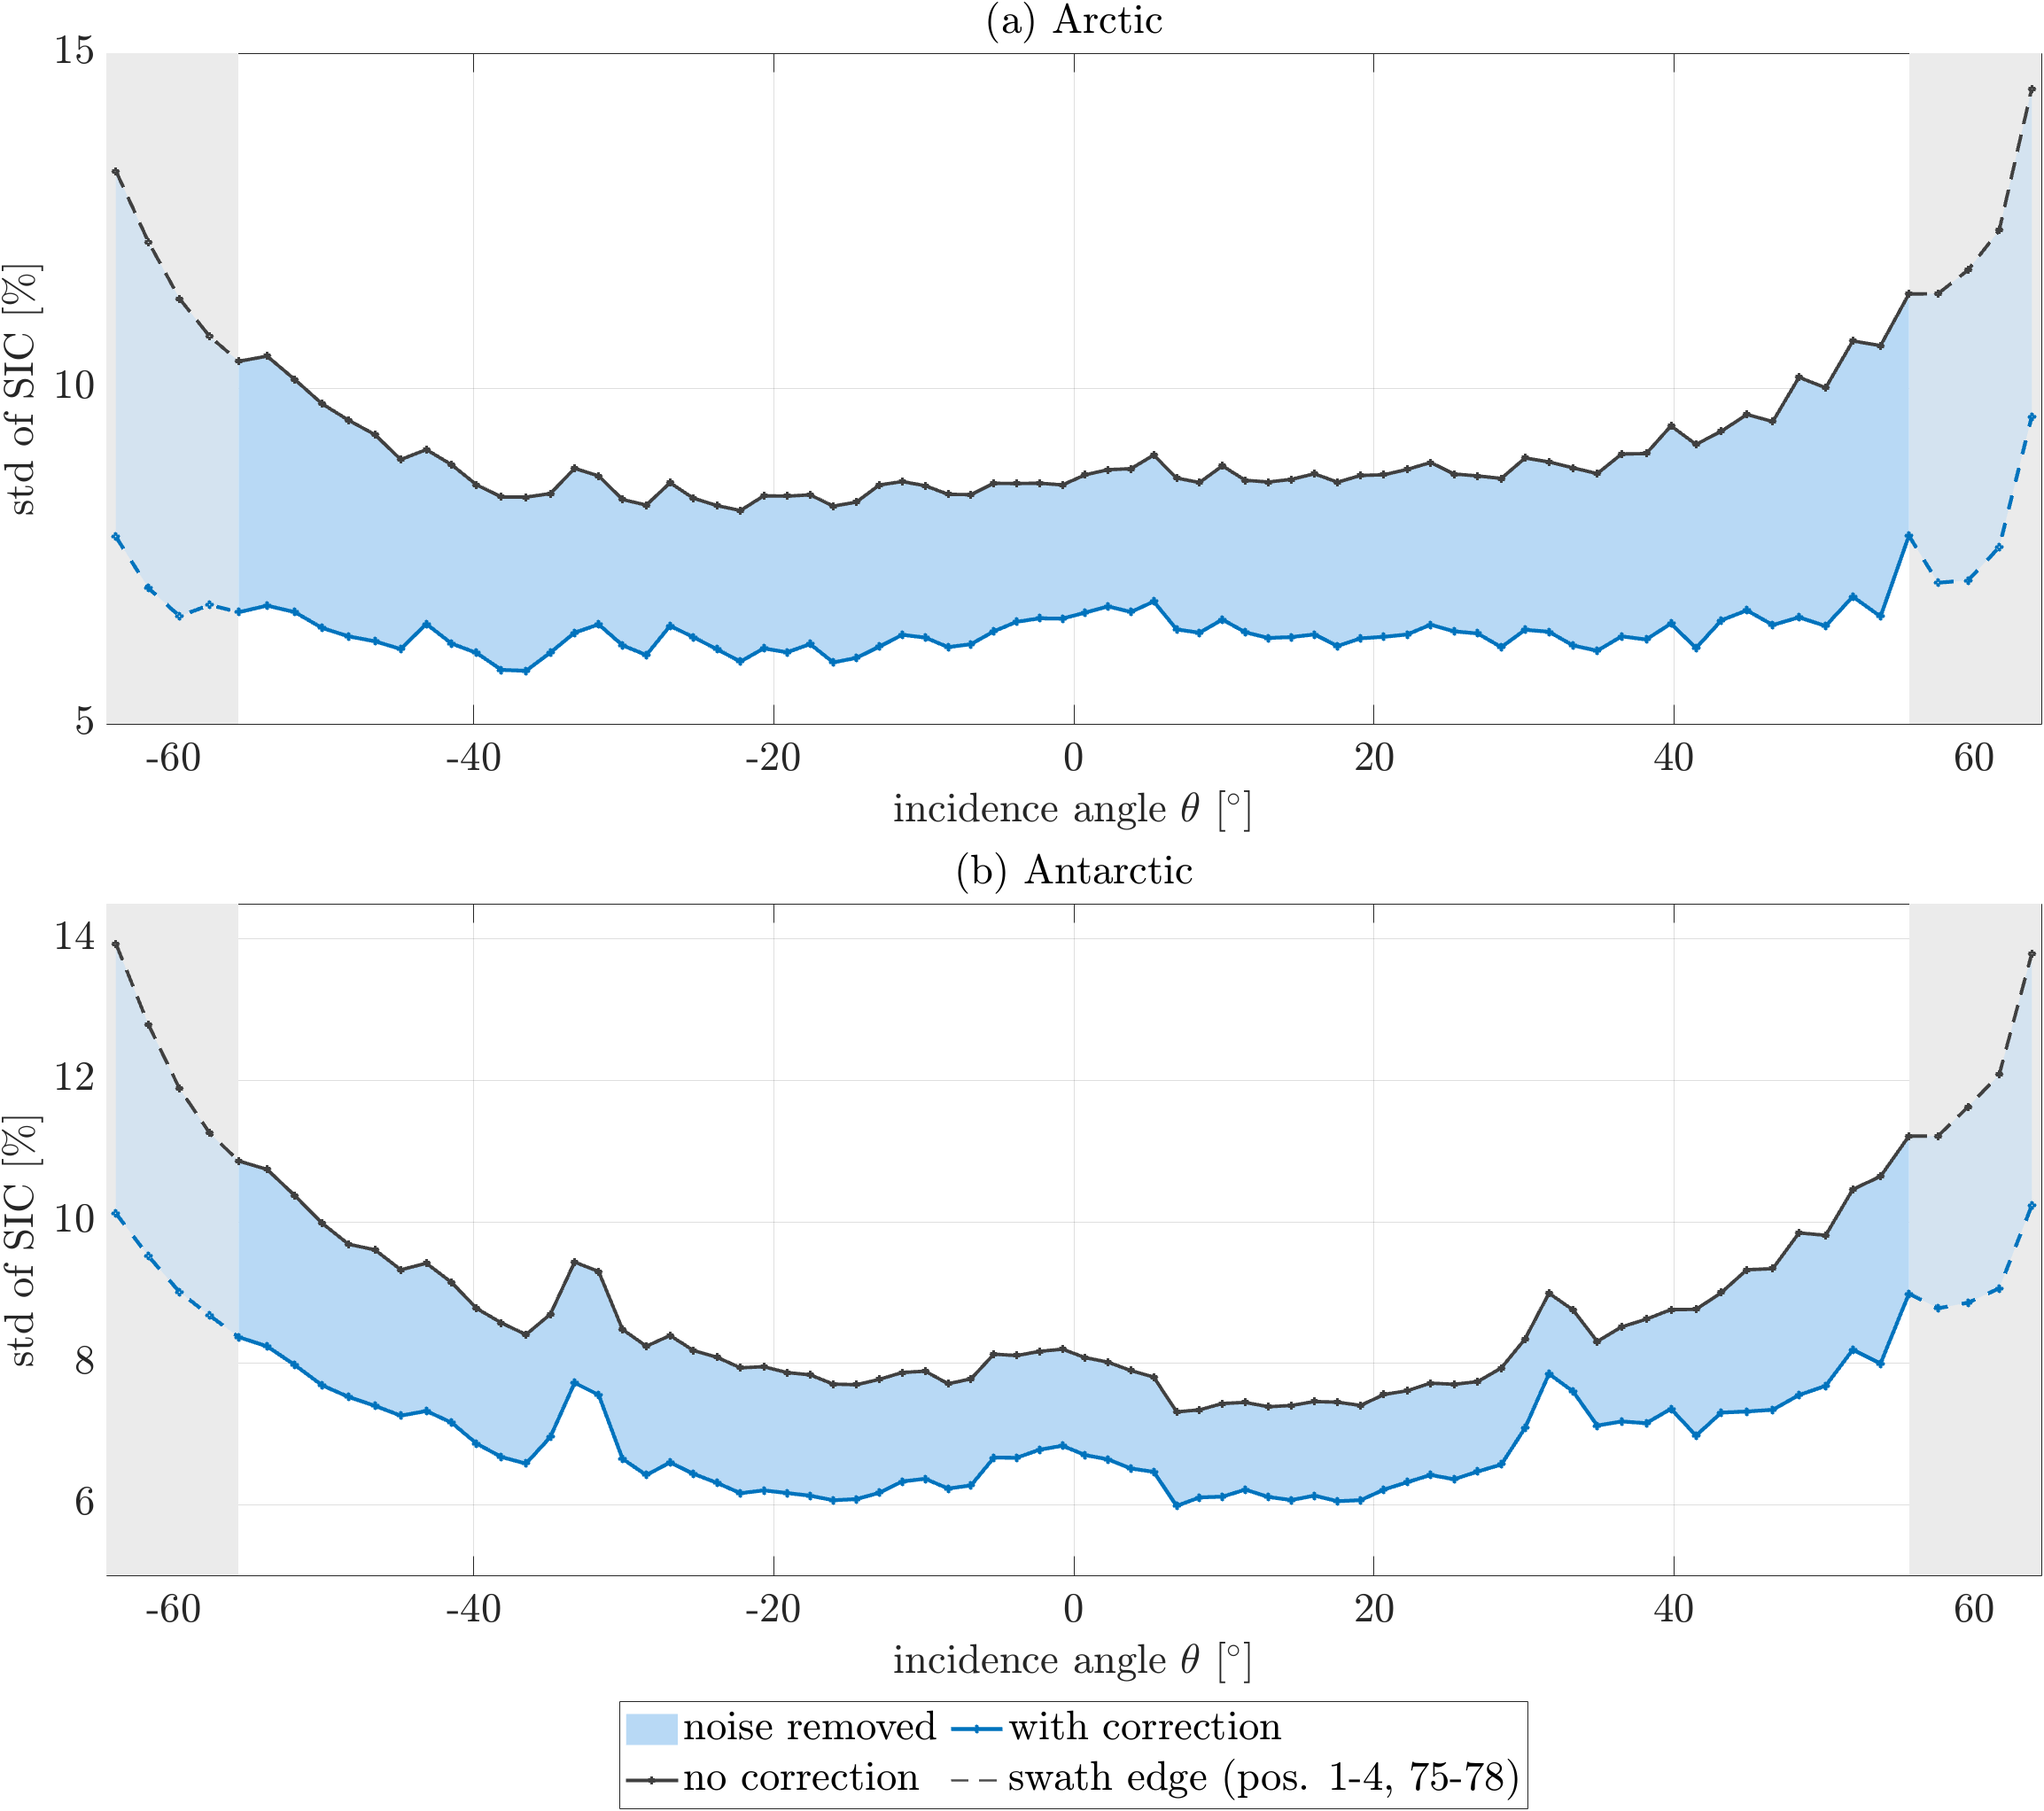
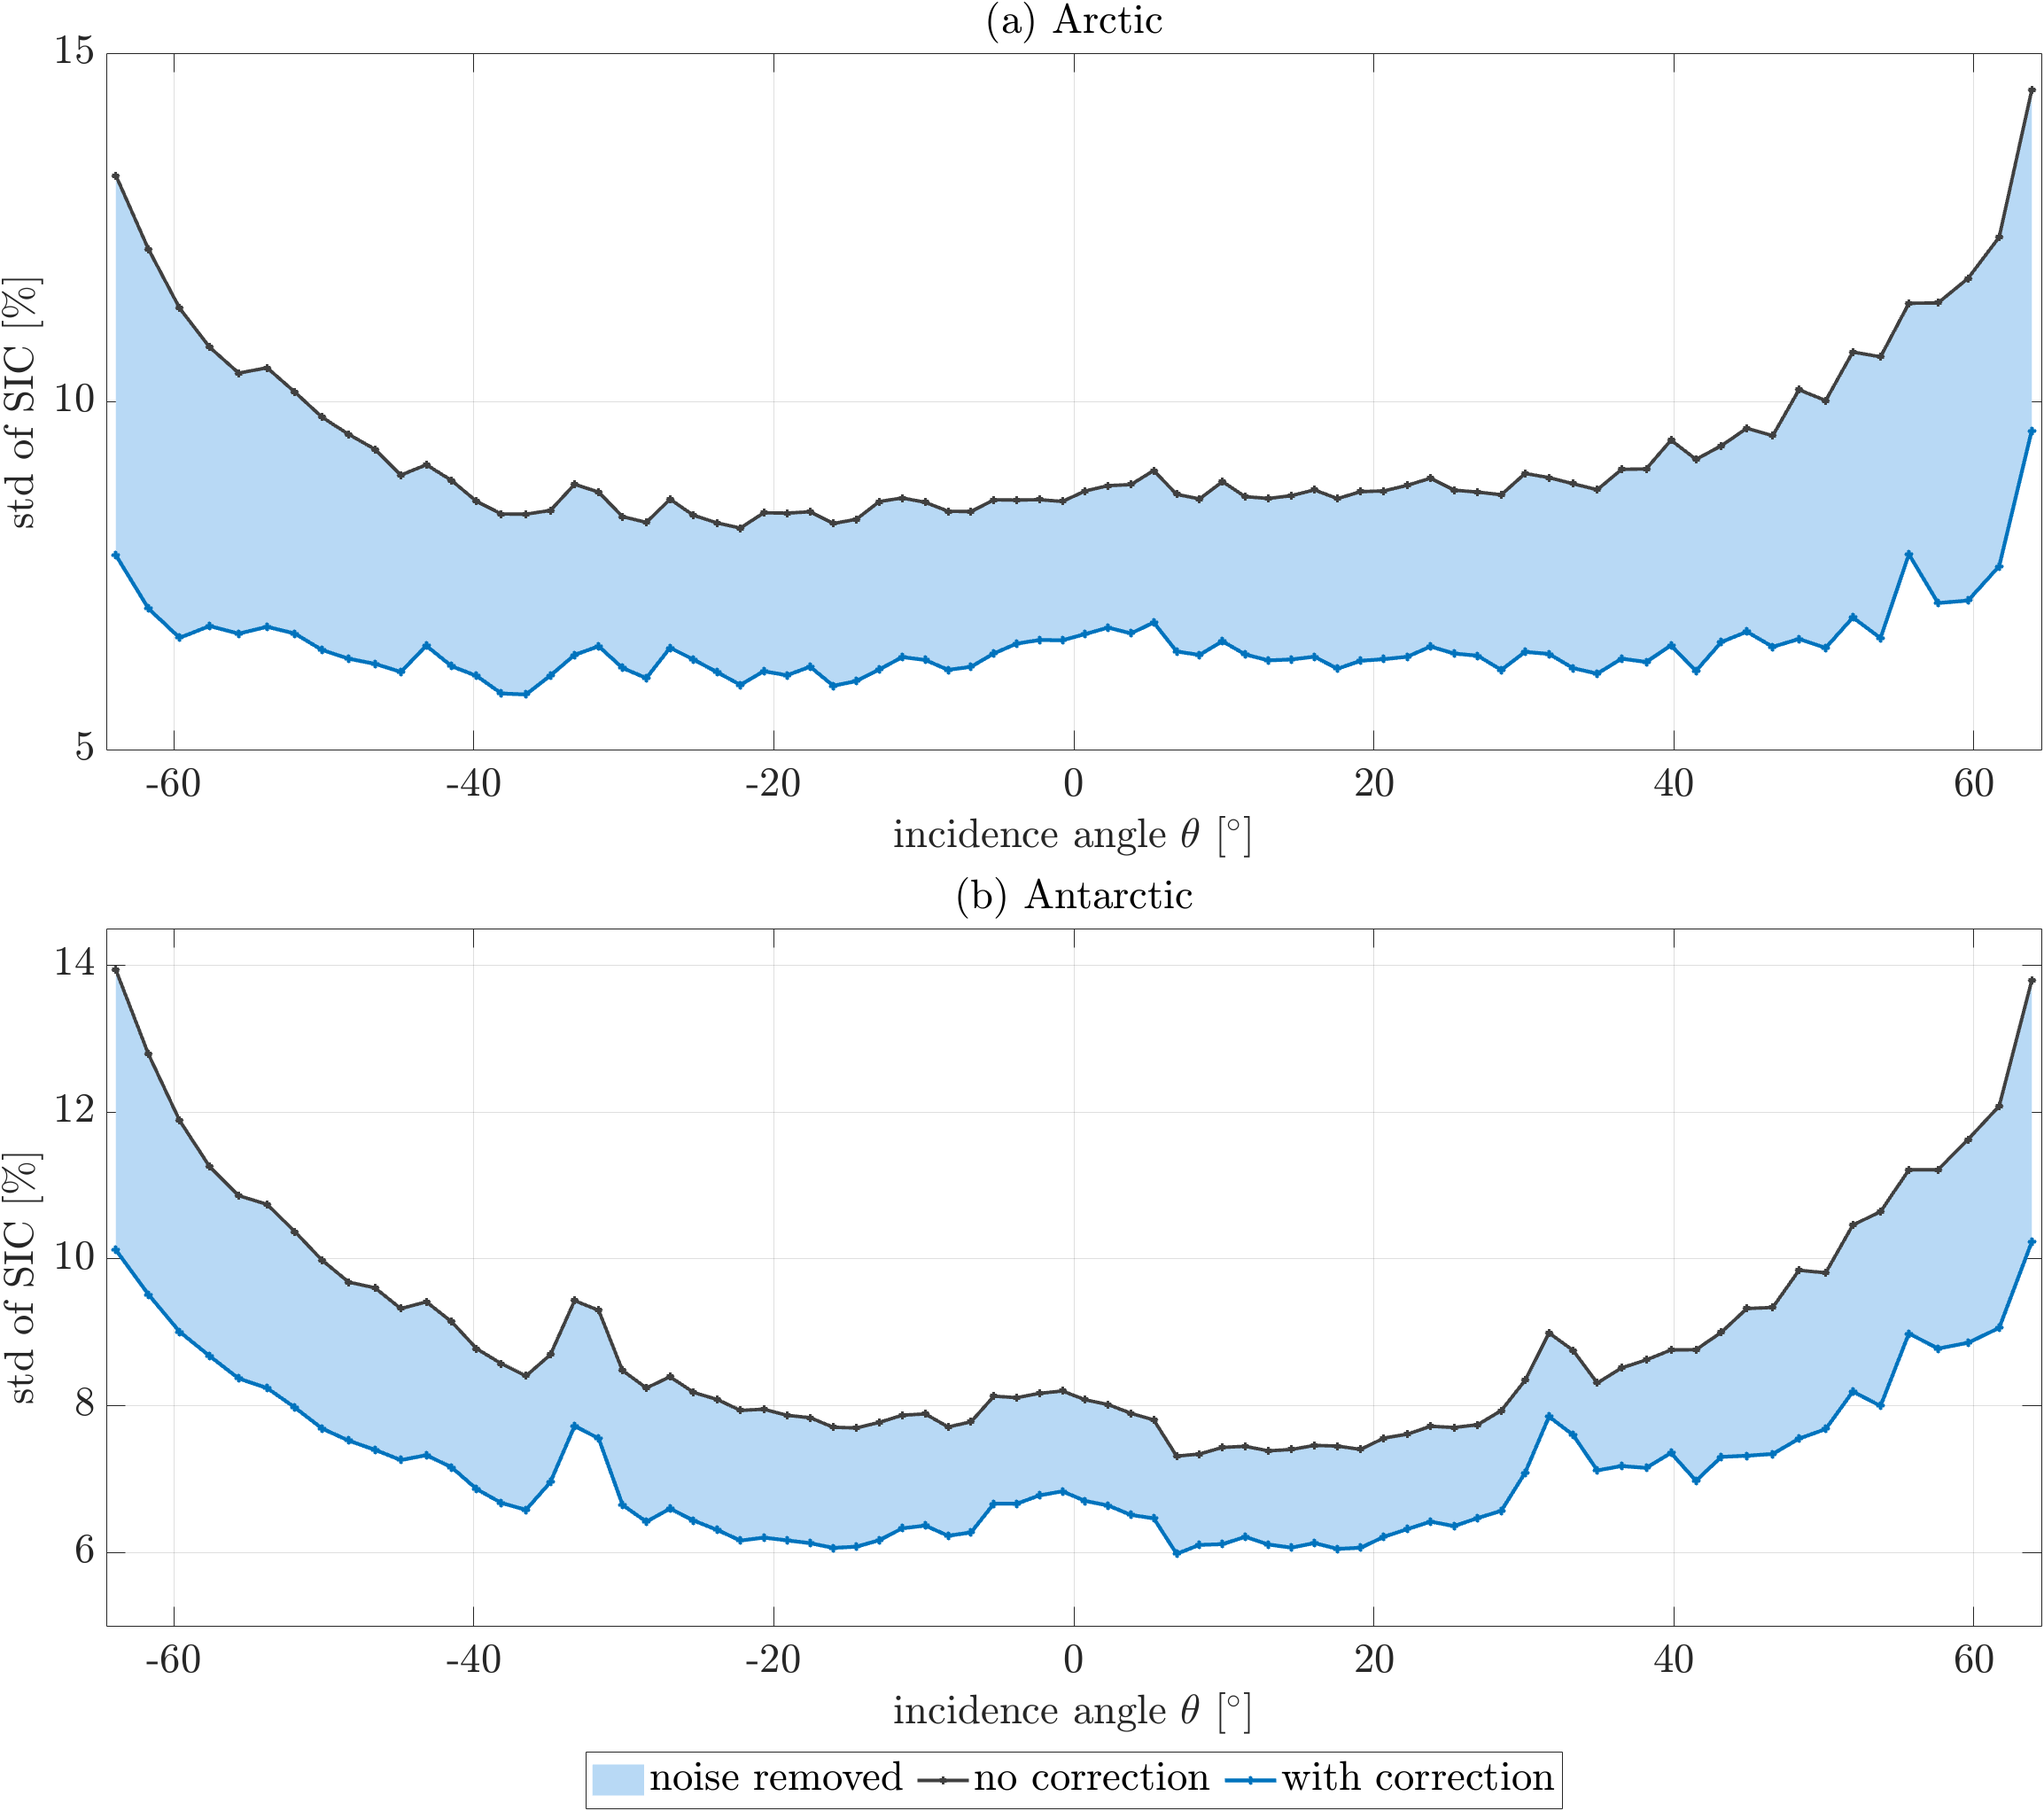
PlotsReport: B2 with full swath (no swath-edge marking)
Claude-Session: https://claude.ai/code/session_01LW9C8ZN5yEBxV3WLiYW71e

diff --git a/PlotsReport/captions.md b/PlotsReport/captions.md
@@ -34,8 +34,8 @@ iteration with the mean L (blue) or with the pixel's own ERA5 L (orange). (a, c)
 legend: monthly mean; (b, d) mean SIC per L bin (ideal: 0). (a, b) Arctic, (c, d) Antarctic.
 
 **B2_std_vs_angle**: Std of the open-water SIC against the incidence angle, 1-27 Feb 1973 (as Kolbe et al., 2024,
-Fig. 5, in % SIC), (a) Arctic, (b) Antarctic. Blue area: noise removed by the RTM correction. Negative angle: left side
-of the swath. Grey bands and dashed lines: swath edge |θ| > 55.7°, cut by Kolbe et al. (2024), kept here.
+Fig. 5, in % SIC), all 78 scan positions (full swath), (a) Arctic, (b) Antarctic. Blue area: noise removed by the RTM
+correction. Negative angle: left side of the swath.
 
 **B7_correction_map**: Where the RTM correction changes the SIC, 1-27 Feb 1973, all ocean pixels |lat| ≥ 50°.
 Columns: mean ΔSIC = corrected - uncorrected, its std over the month, and the input with the largest mean share of the
